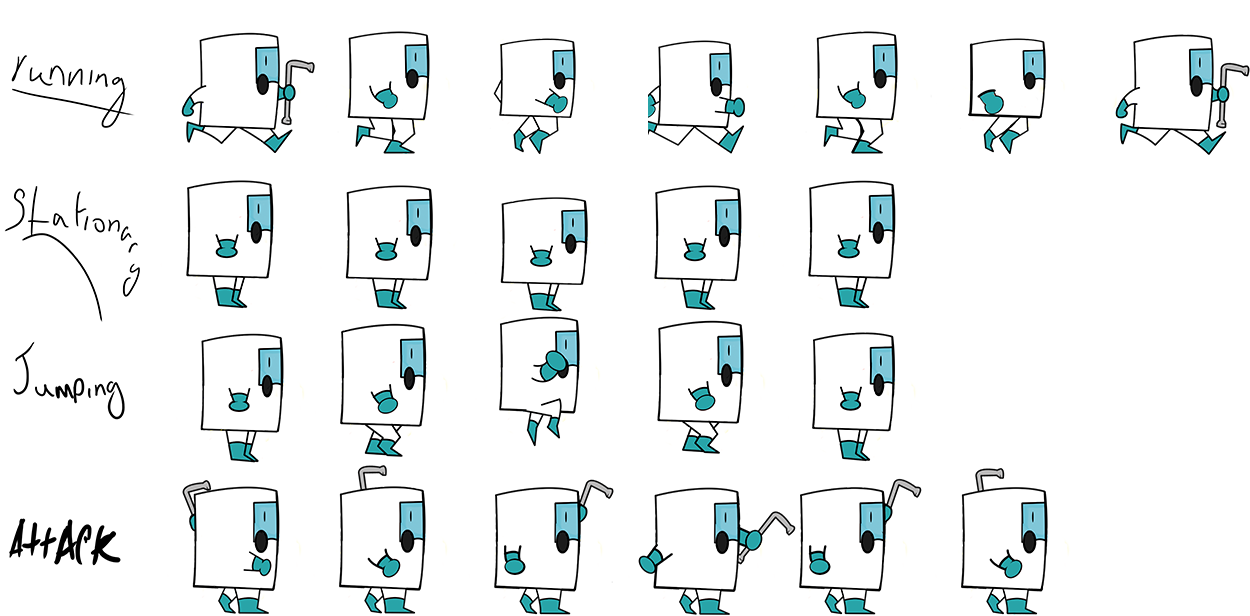
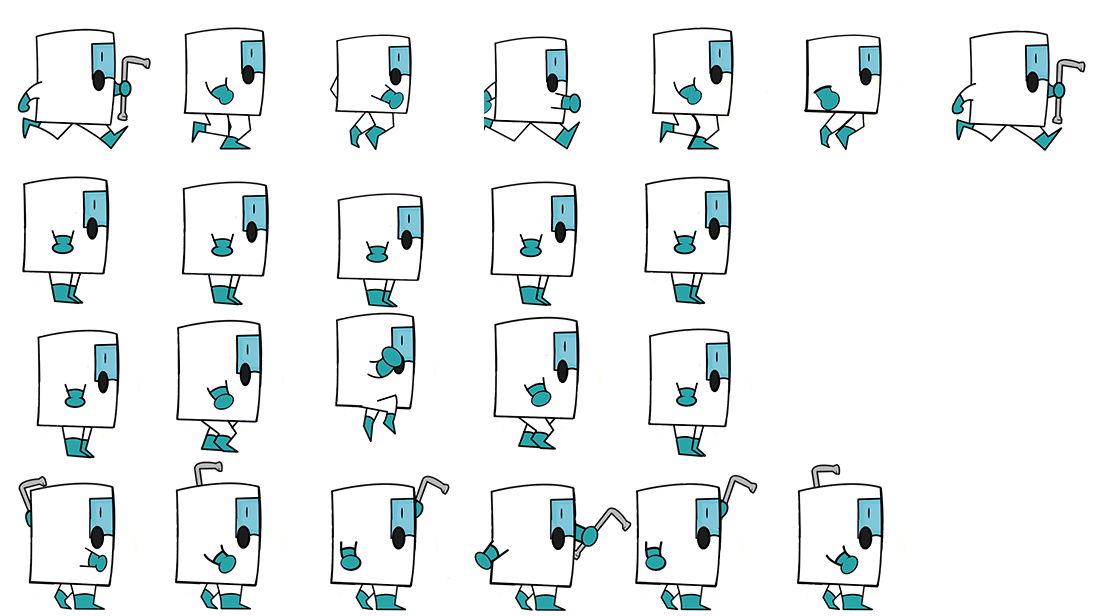
death screens for tree and wolf , and fixed some clipping issues with the sprite

diff --git a/tree_boss_demo.py b/tree_boss_demo.py
@@ -77,7 +77,7 @@ Mright = True
 Mleft = False
 
 player_image = pygame.image.load( "HMCF2.png" ).convert_alpha()
-clip = pygame.Rect( 164 + 158*frame, Aheight * 154 , 160, 154 )
+clip = pygame.Rect(158*frame, Aheight * 154 , 160, 154 )
 '''
 for obj in floors:
     box = Rect(obj.points[0][0], obj.points[0][1], obj.points[1][0] - obj.points[0][0], obj.points[3][1] - obj.points[0][1])
@@ -133,24 +133,24 @@ while True:
                  Mleft = True
                  Mright = False
                  if frame == 0:
-                      FRAME_CT = 4
+                      FRAME_CT = 7
                       Aheight = 0
                       frame = 1
             if ((mkeys[pygame.K_d])|(mkeys[pygame.K_RIGHT])):
                  Mleft = False
                  Mright = True
                  if frame == 0:
-                      FRAME_CT = 4
+                      FRAME_CT = 7
                       Aheight = 0
                       frame = 1
             if ((mkeys[pygame.K_w])|(mkeys[pygame.K_UP])):
                  if frame ==0:
-                      FRAME_CT = 4
+                      FRAME_CT = 5
                       Aheight = 2
                       frame = 1
             if ((mkeys[pygame.K_z])|(mkeys[pygame.K_SPACE])):
                  if frame == 0:
-                      FRAME_CT = 4
+                      FRAME_CT = 6
                       Aheight = 3
                       frame = 1            
             #                               #
@@ -224,7 +224,7 @@ while True:
                '''
             img = player_image
             Bimg = pygame.transform.flip(player_image, True , False)
-            clip = pygame.Rect( 164 + 158*frame, Aheight * 154 , 160, 154 )
+            clip = pygame.Rect(158*frame, Aheight * 154 , 160, 154 )
             
             if Mright == True:
                  screen.blit(img, (player.x - cameraX, player.y + cameraY ),clip )
@@ -246,11 +246,11 @@ while True:
             # check if player gets hit by roots #
             #
             #
-            if (tree_boss.root_attacking):
+            '''if (tree_boss.root_attacking):
                  player_alive = tree_boss.root_collision(player, player_width, player_height, clip, player_image)
                  if(not player_alive):
                       death_time = pygame.time.get_ticks()
-               
+               '''
     else:
 
         if((pygame.time.get_ticks()) > (death_time + death_delay)):
